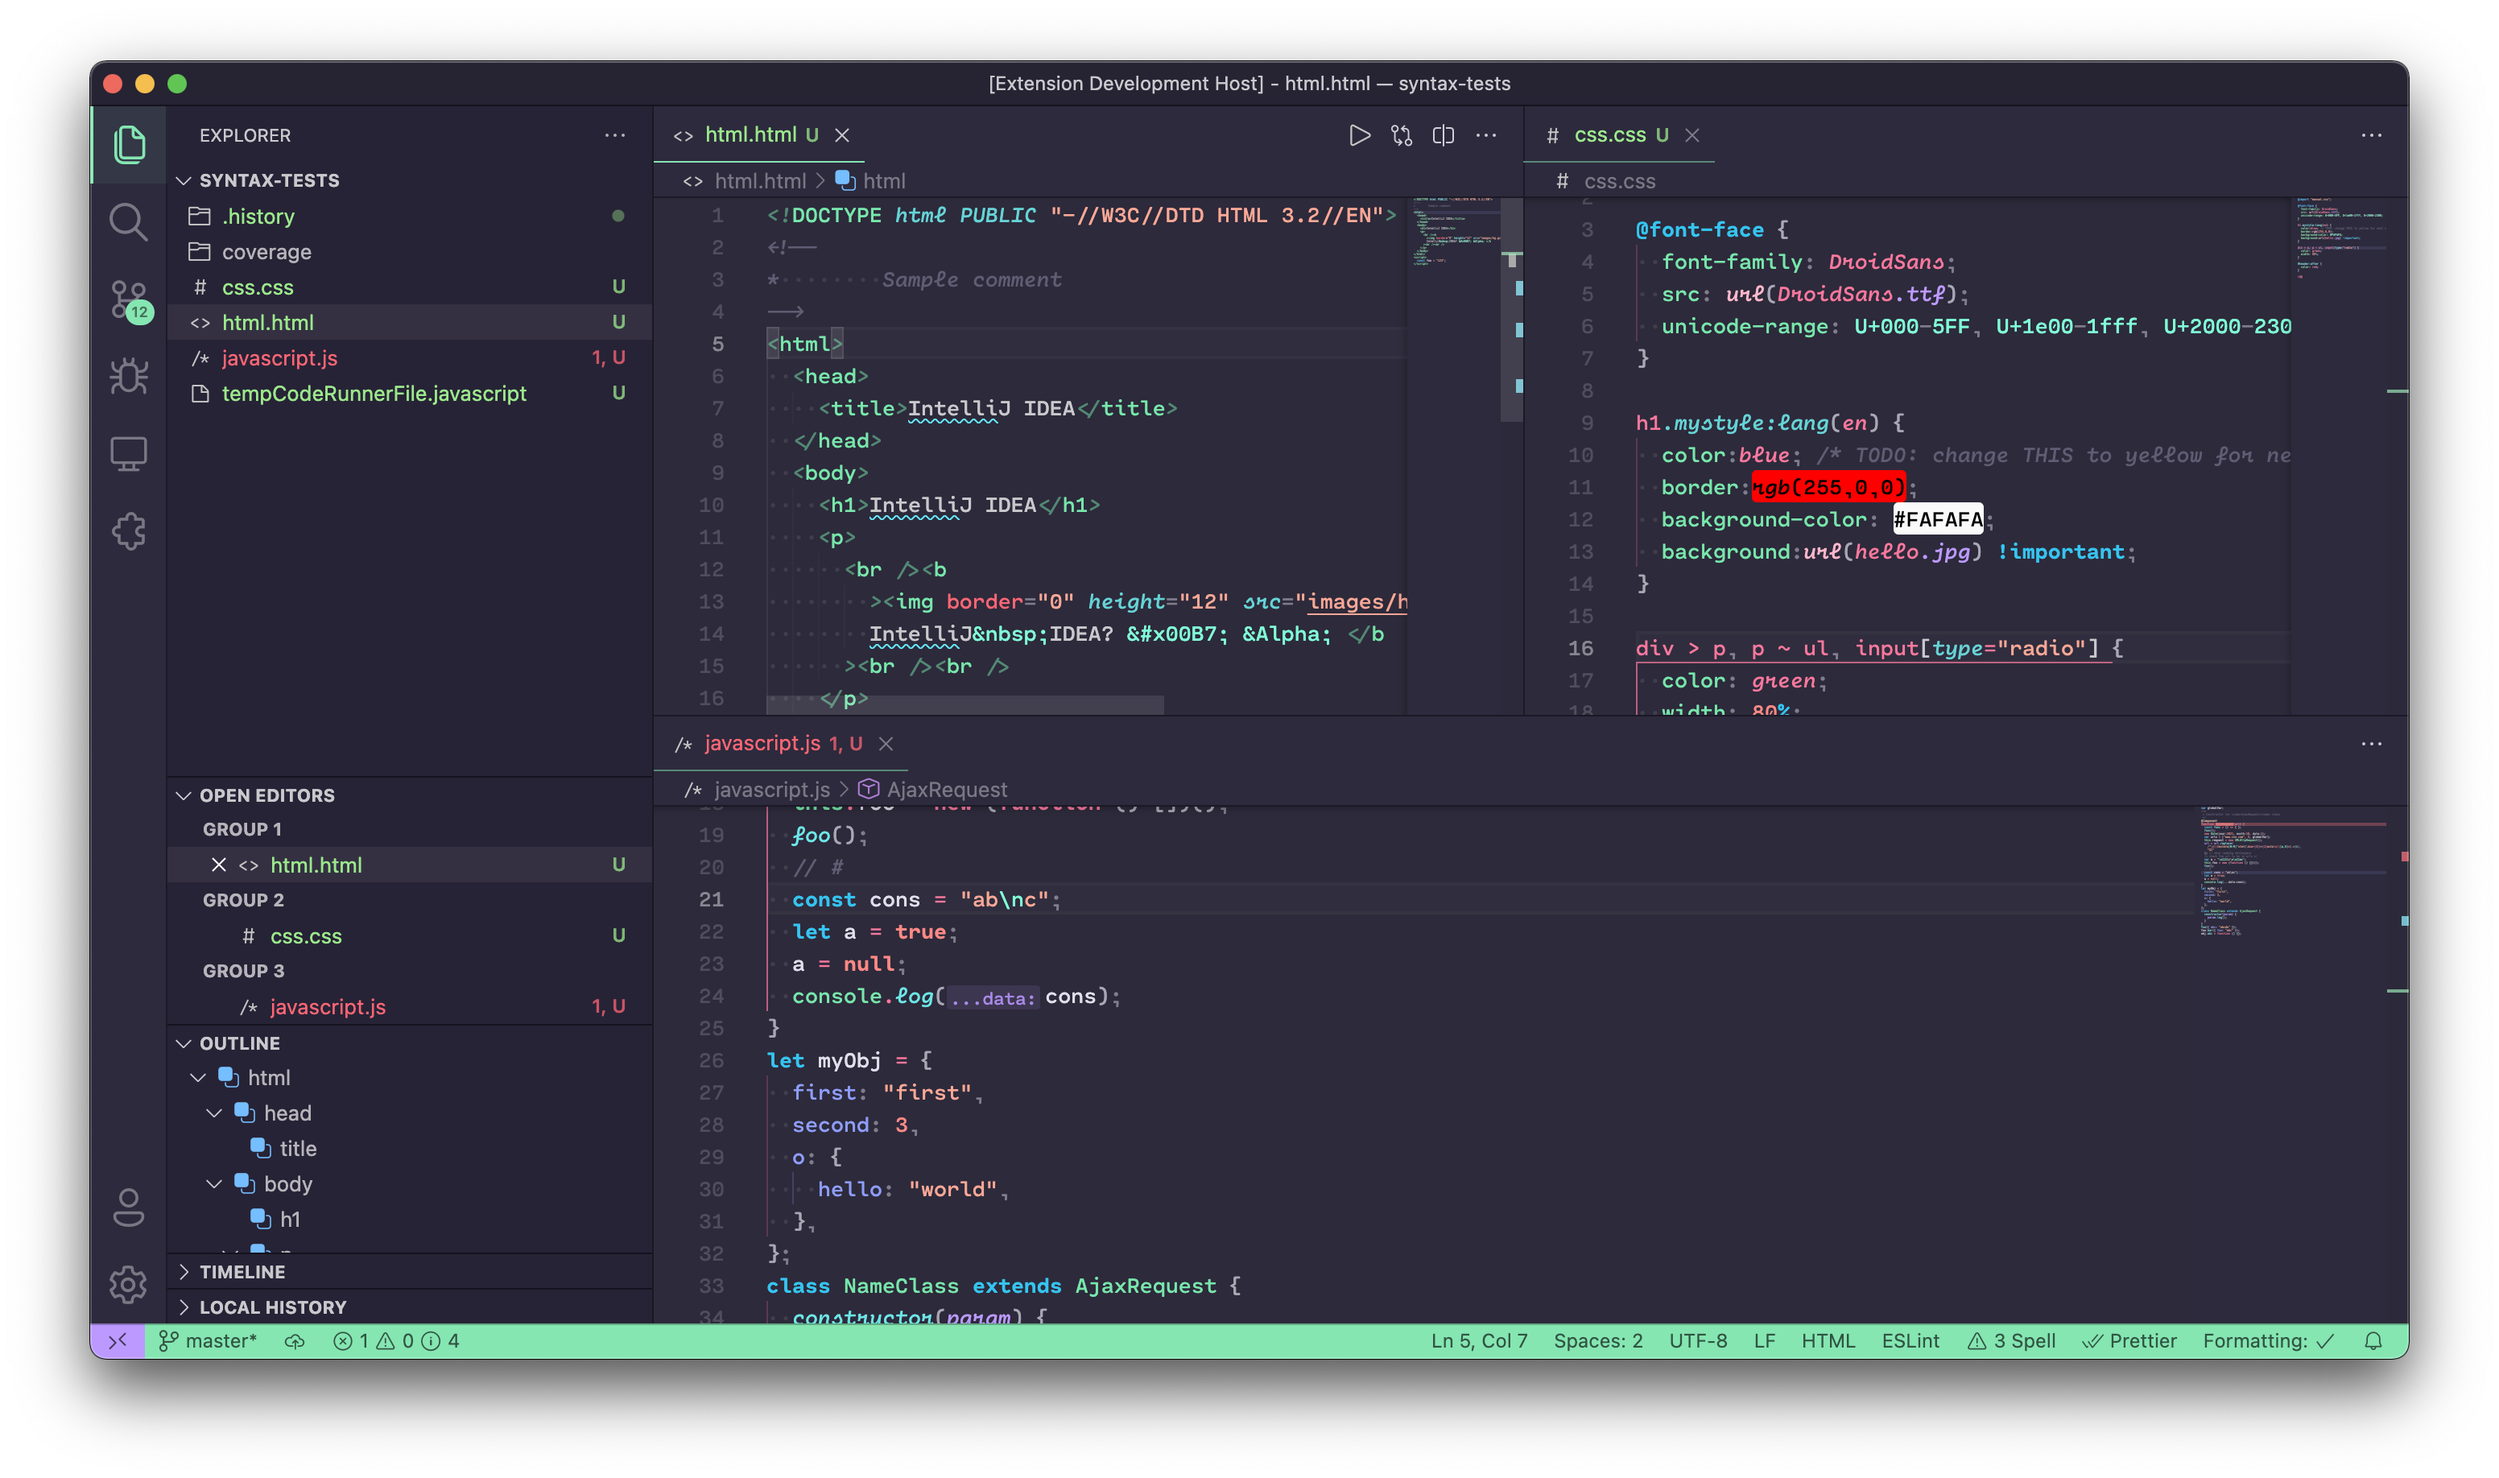
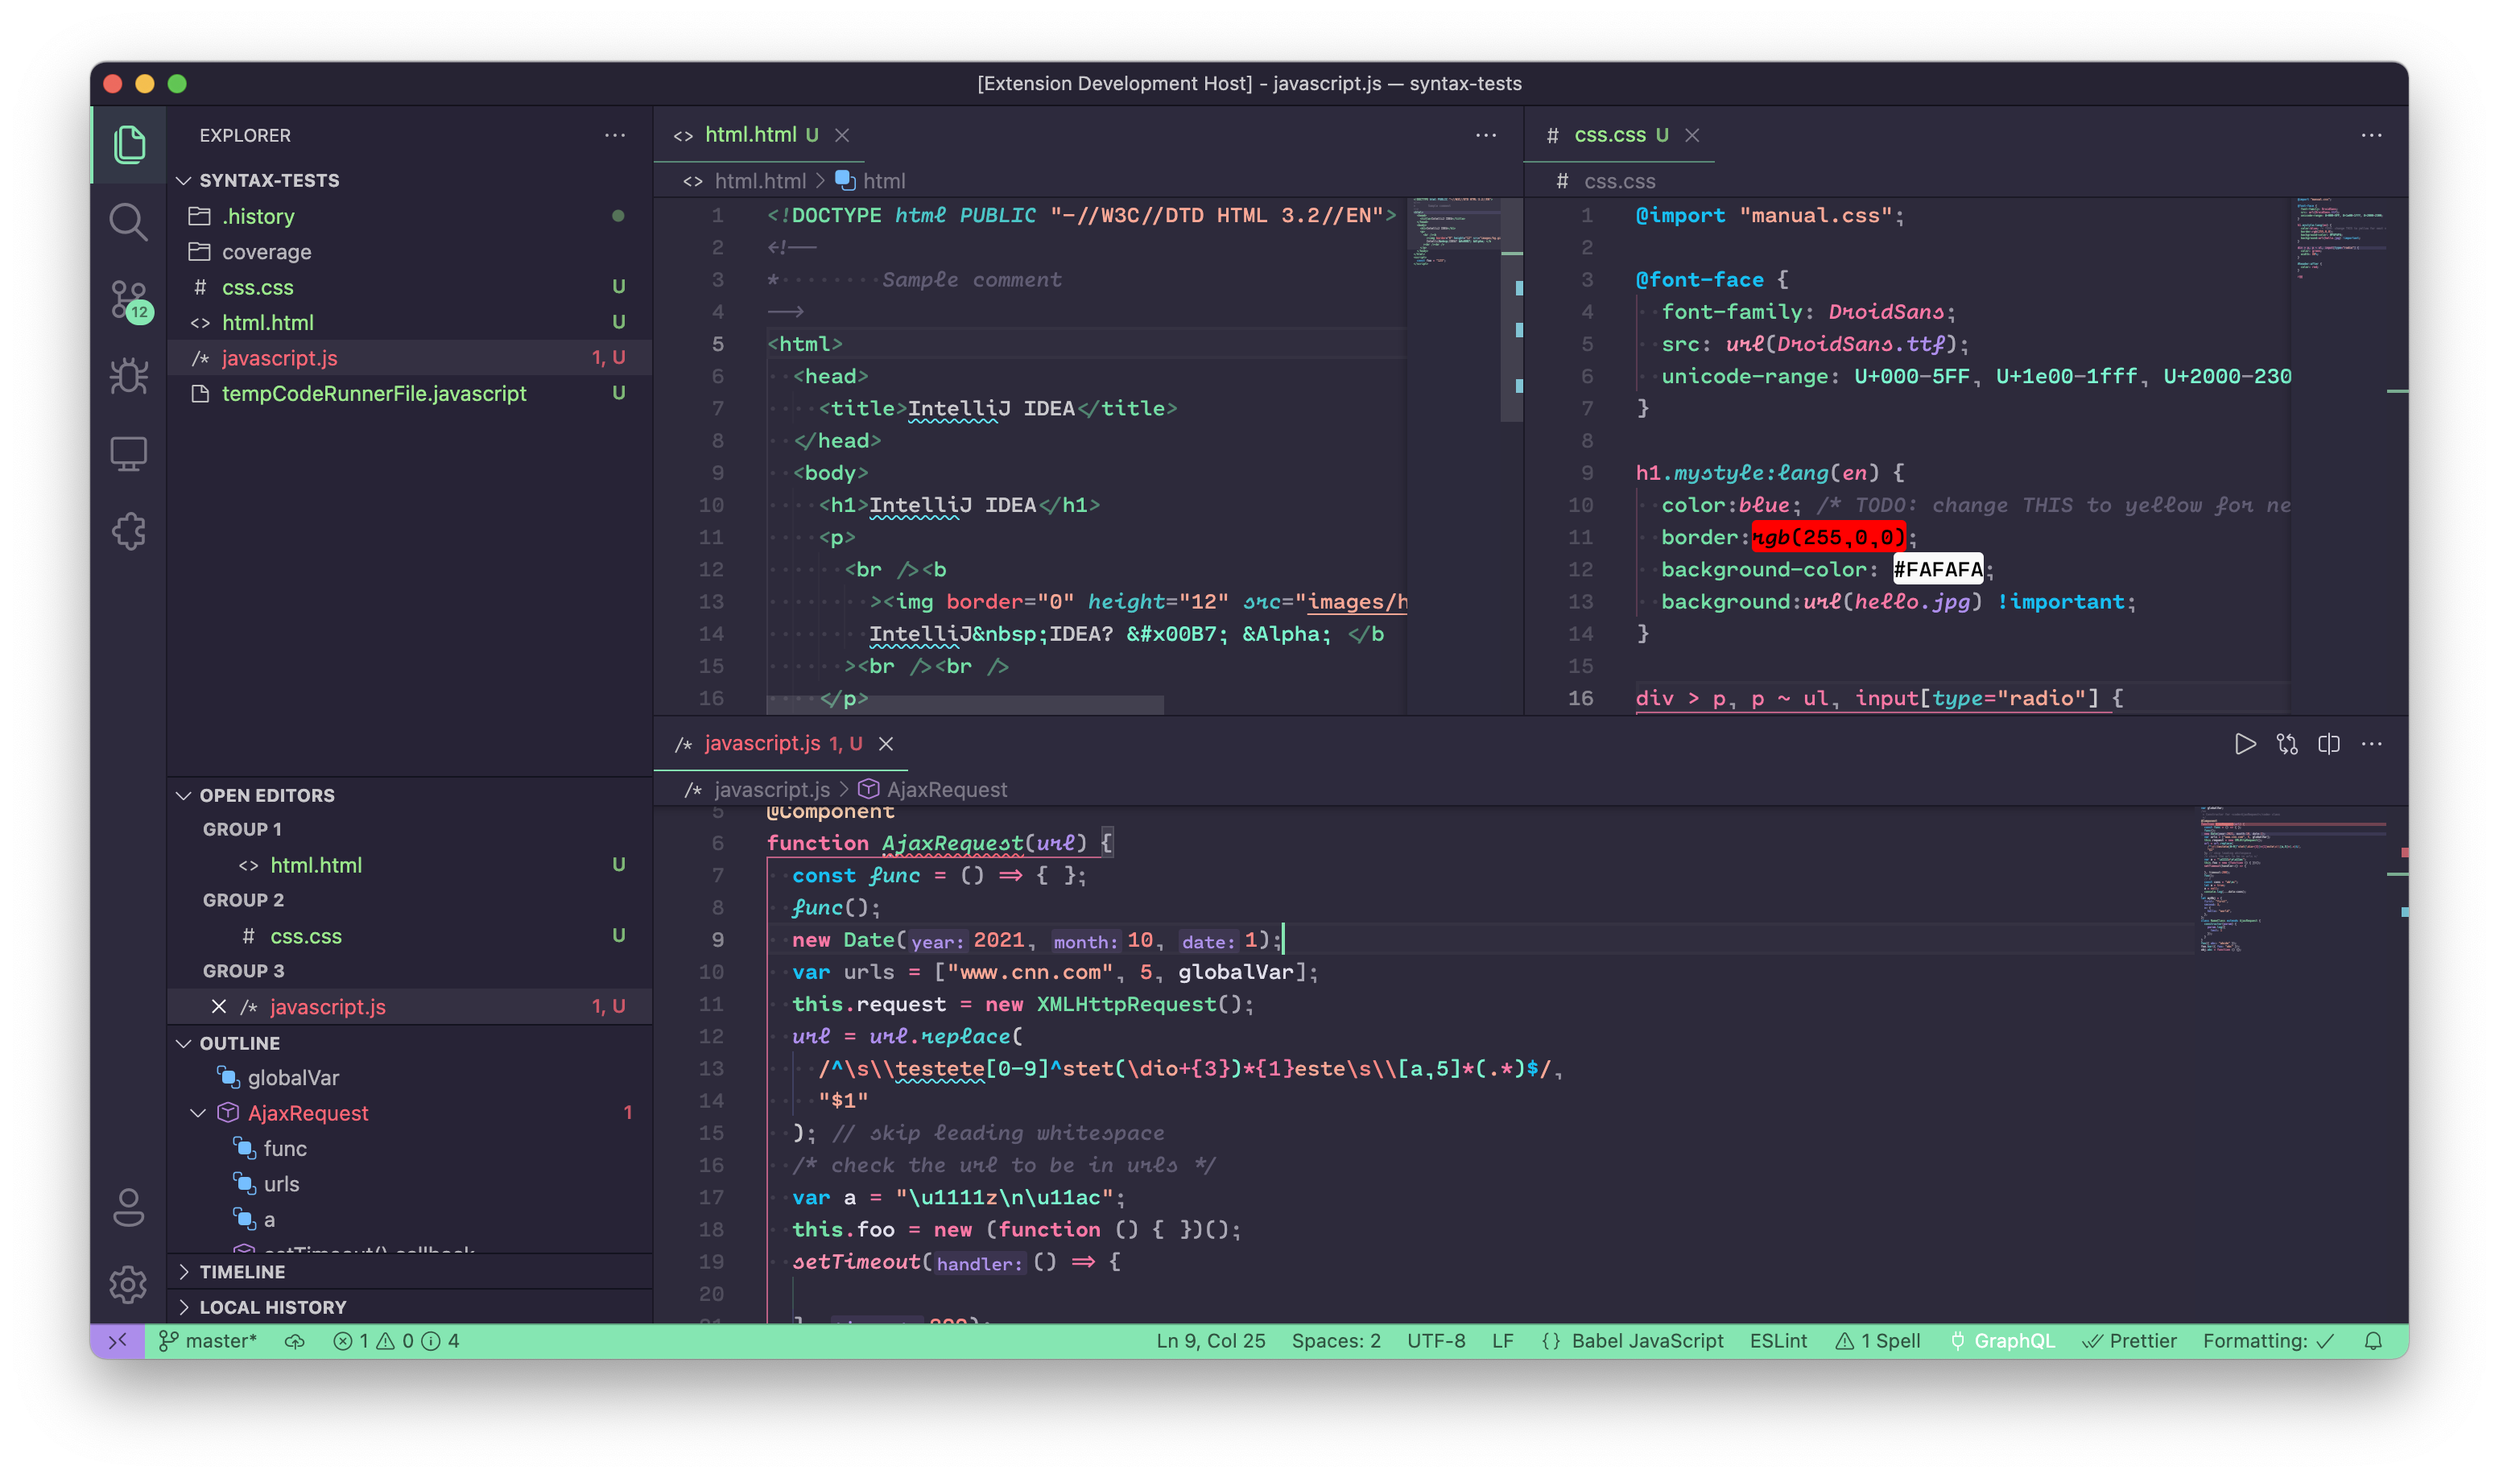
Update syntax color: less bright

diff --git a/CHANGELOG.md b/CHANGELOG.md
@@ -1,6 +1,9 @@
 # Change Log
 
 
+## 1.4.32
+Update syntax color: less bright
+
 ## 1.4.31
 Update syntax color
 
